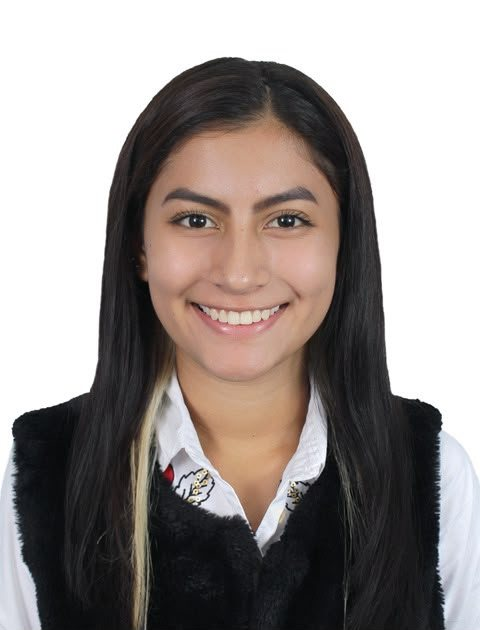
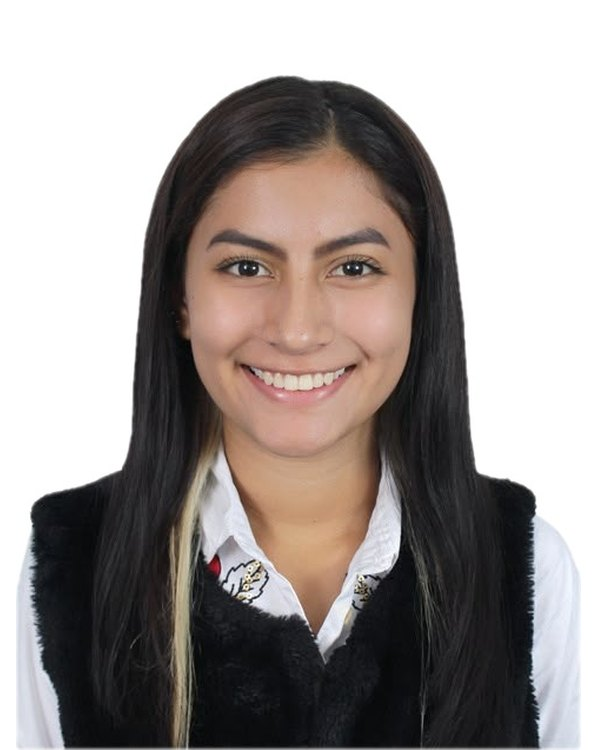
Add files via upload

Changed region(s): [[0.0, 0.0905, 1.0, 1.0], [0.375, 0.4524, 0.625, 0.5429], [0.1875, 0.8444, 0.2188, 0.8746]]

diff --git a/index.html b/index.html
@@ -16,7 +16,7 @@
 <link rel="preconnect" href="https://fonts.gstatic.com" crossorigin>
 <link href="https://fonts.googleapis.com/css2?family=Inter:wght@400;500;600&family=Poppins:wght@500;600;700&display=swap" rel="stylesheet">
 <link rel="preload" as="image" href="cad-v8.webp" type="image/webp">
-<link rel="stylesheet" href="styles.css?v=7">
+<link rel="stylesheet" href="styles.css?v=8">
 </head>
 <body>
 <a class="skip" href="#contenido">Saltar al contenido</a>
@@ -62,8 +62,7 @@
     <div class="stage-ring" aria-hidden="true"></div>
     <div class="stage-floor" aria-hidden="true"></div>
     <picture>
-      <source srcset="cad-v8.webp" type="image/webp">
-      <img class="hero-cad" src="cad-v8.png" width="1030" height="1268" alt="Modelo CAD versión 8 de la silla 22 Ángeles: estructura negra, ruedas motrices traseras, motor con transmisión por cadena y caja de baterías">
+      <img class="hero-cad" src="cad-v8.webp" width="1030" height="1268" alt="Modelo CAD versión 8 de la silla 22 Ángeles: estructura negra, ruedas motrices traseras, motor con transmisión por cadena y caja de baterías">
     </picture>
     <figcaption>Modelo CAD V8.0</figcaption>
   </figure>
@@ -249,14 +248,14 @@
     </ol>
   </div>
   <ul class="people" data-stagger aria-label="Integrantes">
-    <li><img src="team-andres-valderrama.jpg" alt="Andrés Valderrama" loading="lazy" width="480" height="544"><b>Andrés Valderrama</b><span>Electrónica</span></li>
+    <li><img src="team-andres-valderrama.jpg?v=2" alt="Andrés Valderrama" loading="lazy" width="600" height="750"><b>Andrés Valderrama</b><span>Electrónica</span></li>
     <li><i class="avatar" aria-hidden="true">AS</i><b>Andrés Serrano</b><span>Mecánica</span></li>
-    <li><i class="avatar" aria-hidden="true">FR</i><b>Felipe Rodríguez</b><span>Mecánica</span></li>
-    <li><i class="avatar" aria-hidden="true">SO</i><b>Samuel Ortiz</b><span>Electrónica</span></li>
-    <li><img src="team-paula-torres.jpg" alt="Paula Torres" loading="lazy" width="480" height="630"><b>Paula Torres</b><span>Control</span></li>
-    <li><i class="avatar" aria-hidden="true">SR</i><b>Sebastián Rincón</b><span>Control</span></li>
-    <li><i class="avatar" aria-hidden="true">DM</i><b>Dahivid Mateus</b><span>IA y Datos</span></li>
-    <li><i class="avatar" aria-hidden="true">JB</i><b>Juliana Buitrago</b><span>IA y Datos</span></li>
+    <li><img src="team-felipe-rodriguez.jpg" alt="Felipe Rodríguez" loading="lazy" width="600" height="750"><b>Felipe Rodríguez</b><span>Mecánica</span></li>
+    <li><img src="team-samuel-ortiz.jpg" alt="Samuel Ortiz" loading="lazy" width="600" height="750"><b>Samuel Ortiz</b><span>Electrónica</span></li>
+    <li><img src="team-paula-torres.jpg?v=2" alt="Paula Torres" loading="lazy" width="600" height="750"><b>Paula Torres</b><span>Control</span></li>
+    <li><img src="team-sebastian-rincon.jpg" alt="Sebastián Rincón" loading="lazy" width="600" height="750"><b>Sebastián Rincón</b><span>Control</span></li>
+    <li><img src="team-dahivid-mateus.jpg" alt="Dahivid Mateus" loading="lazy" width="600" height="750"><b>Dahivid Mateus</b><span>IA y Datos</span></li>
+    <li><img src="team-juliana-buitrago.jpg" alt="Juliana Buitrago" loading="lazy" width="600" height="750"><b>Juliana Buitrago</b><span>IA y Datos</span></li>
   </ul>
   <div class="gallery" id="gallery">
     <h3 data-reveal>Del taller al modelo</h3>

diff --git a/styles.css b/styles.css
@@ -75,7 +75,7 @@ svg .fill{fill:currentColor;stroke:none}
 [data-stagger].in>*{opacity:1;transform:none}
 
 /* secciones */
-section{position:relative;padding:var(--sec) var(--pad)}
+section{position:relative;padding:var(--sec) var(--pad);overflow-x:clip}
 .dark{background:var(--ink);color:var(--t-d)}
 .dark h2,.dark h3{color:#fff}
 .sec-head{max-width:860px;margin-bottom:clamp(36px,5vw,60px)}
@@ -332,8 +332,8 @@ section{position:relative;padding:var(--sec) var(--pad)}
 .people{list-style:none;margin:0;padding:0;display:grid;grid-template-columns:repeat(8,1fr);gap:16px}
 .people li{display:flex;flex-direction:column}
 .people img,.avatar{width:100%;height:auto;aspect-ratio:4/5;object-fit:cover;border-radius:var(--r-m);background:var(--ink-2)}
-.people img{filter:grayscale(.15);transition:filter .3s,transform .4s var(--ease)}
-.people li:hover img{filter:none;transform:translateY(-4px)}
+.people img{background:#fff;object-position:50% 0;transition:transform .4s var(--ease),box-shadow .4s}
+.people li:hover img{transform:translateY(-4px);box-shadow:0 0 0 2px var(--signal)}
 .avatar{display:grid;place-items:center;font:600 clamp(20px,2vw,28px)/1 var(--f-h);font-style:normal;color:var(--signal);background:linear-gradient(160deg,#1B3B63,#152238);box-shadow:inset 0 0 0 1px var(--line-d);transition:transform .4s var(--ease)}
 .people li:hover .avatar{transform:translateY(-4px)}
 .people b{margin-top:12px;color:#fff;font-weight:600;font-size:15px;line-height:1.3}
